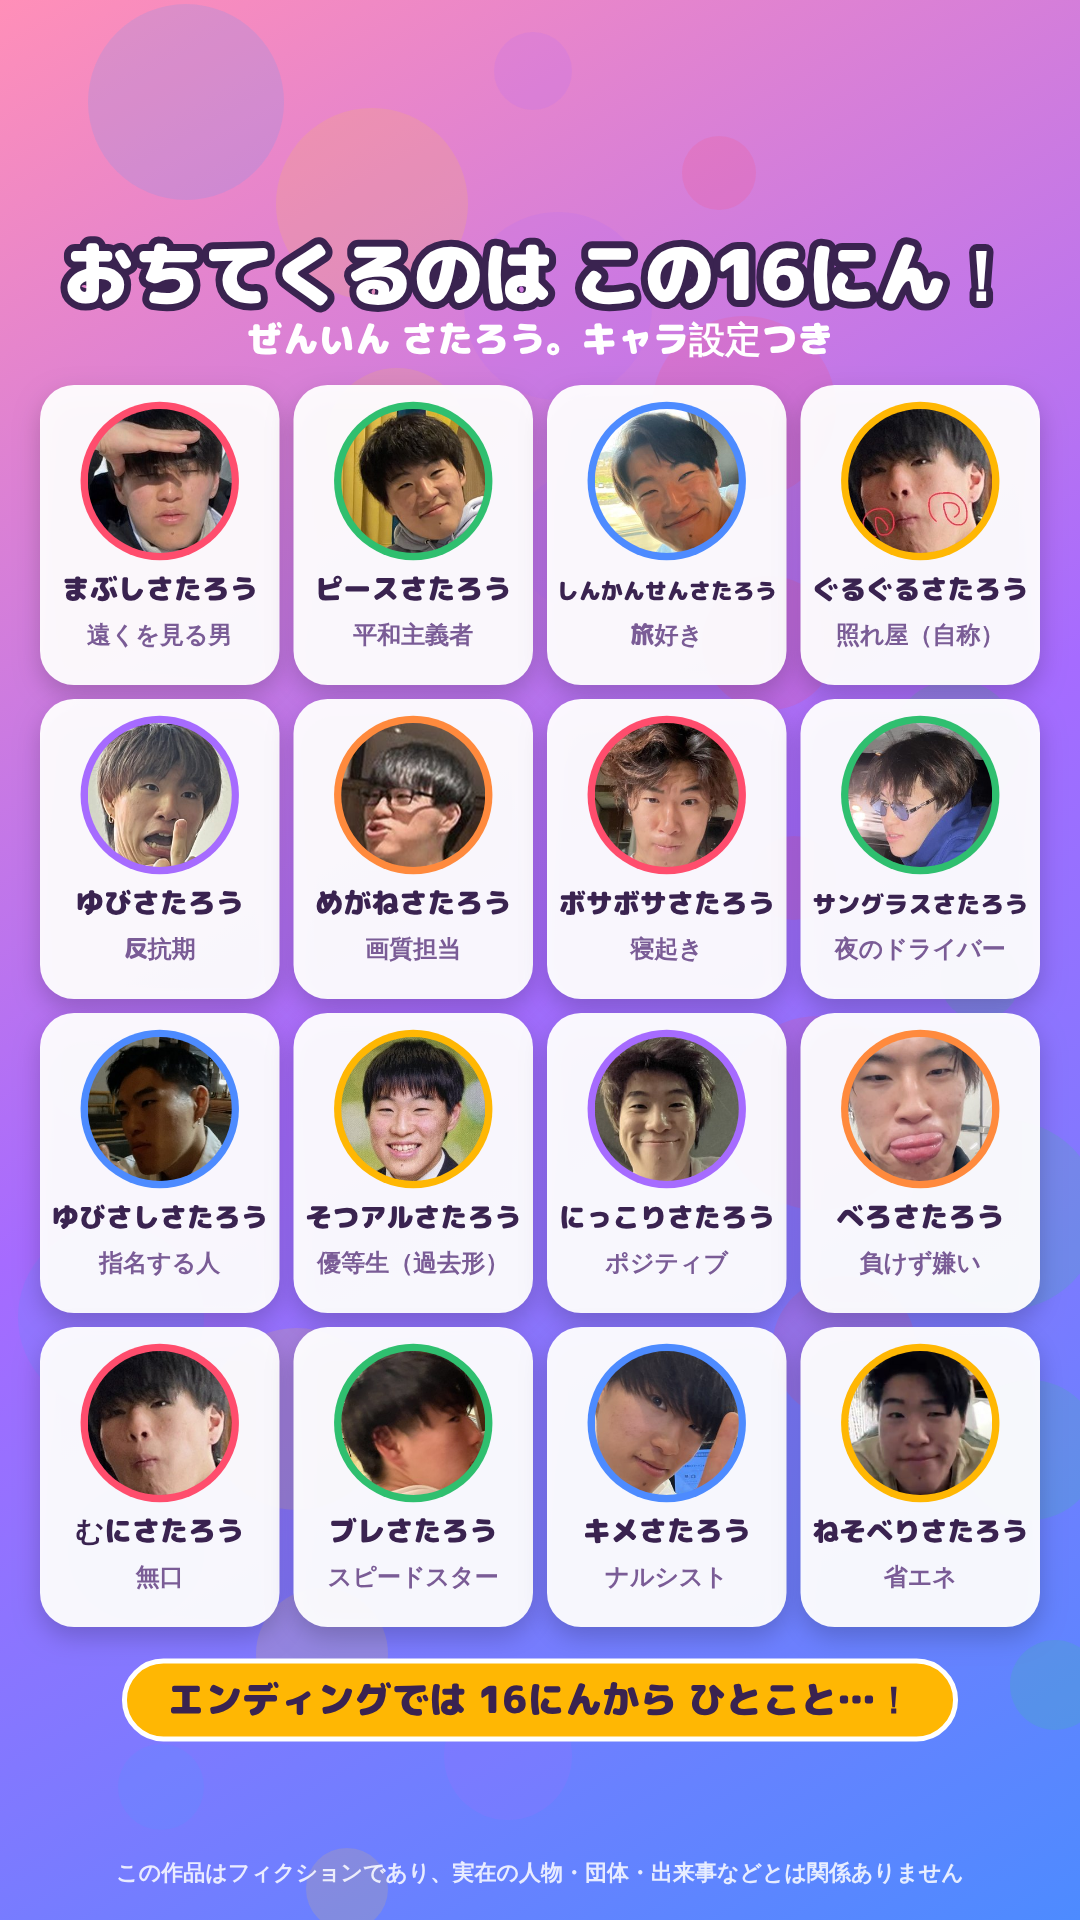
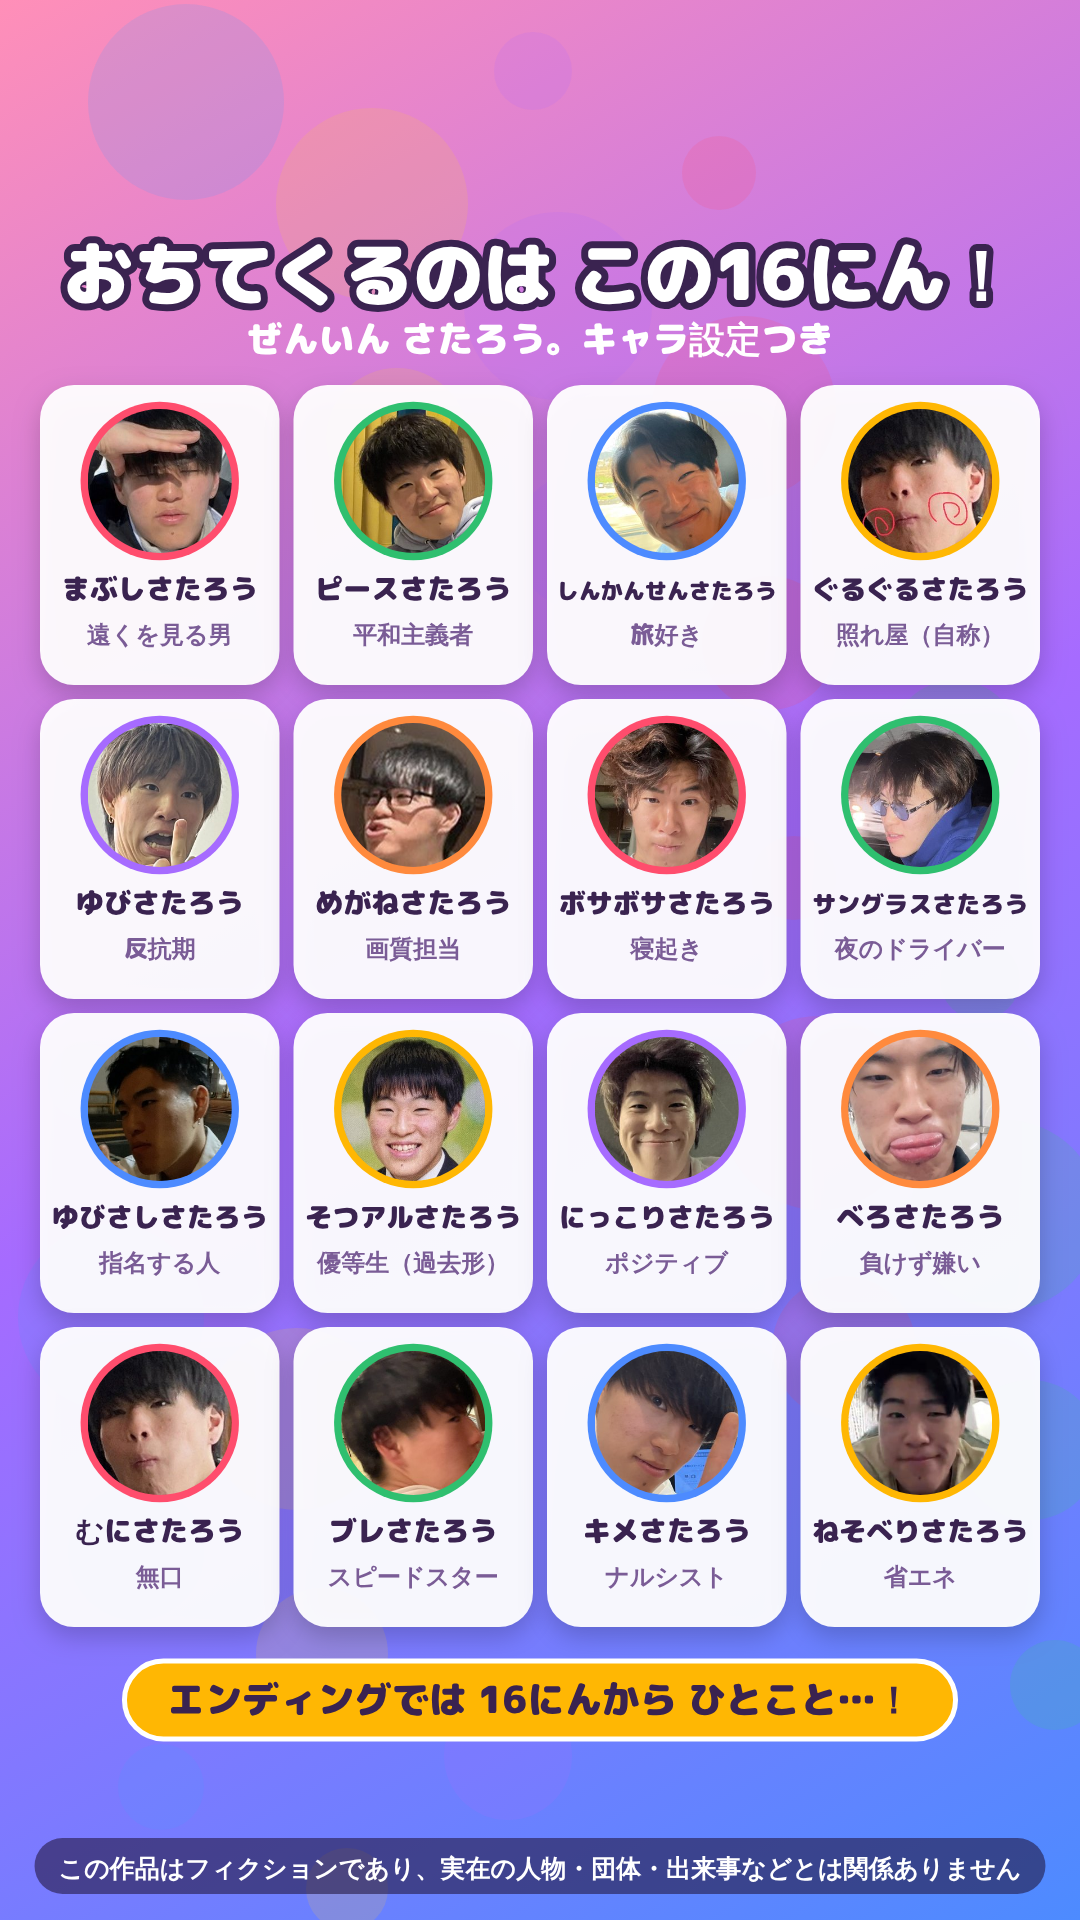
ストーリー広告の注意書きを大きく・読みやすく
Claude-Session: https://claude.ai/code/session_01DBz8UX6wqfkzSfTtDdqhoj

Changed region(s): [[0.0306, 0.9375, 0.9778, 1.0]]

diff --git a/tools/story_ads_draw.js b/tools/story_ads_draw.js
@@ -54,10 +54,16 @@ window.drawStoryAds = async function () {
   }
   // いちばん下の ちいさい注意書き（4まい全部）
   function note(g) {
+    const str = 'この作品はフィクションであり、実在の人物・団体・出来事などとは関係ありません';
+    const size = fitSize(g, str, 30, W - 100, 800);
+    font(g, size, 800);
+    const w = g.measureText(str).width + 48;
     g.save();
-    g.globalAlpha = 0.85;
-    text(g, 'この作品はフィクションであり、実在の人物・団体・出来事などとは関係ありません', W / 2, 1880, 22, '#fff', 'center', W - 80, 700);
+    g.fillStyle = 'rgba(30, 14, 50, 0.55)';
+    rr(g, (W - w) / 2, 1838, w, 56, 28);
+    g.fill();
     g.restore();
+    text(g, str, W / 2, 1877, size, '#fff', 'center', W - 100, 800);
   }
   function face(g, img, cx, cy, r, ring) {
     g.save();
